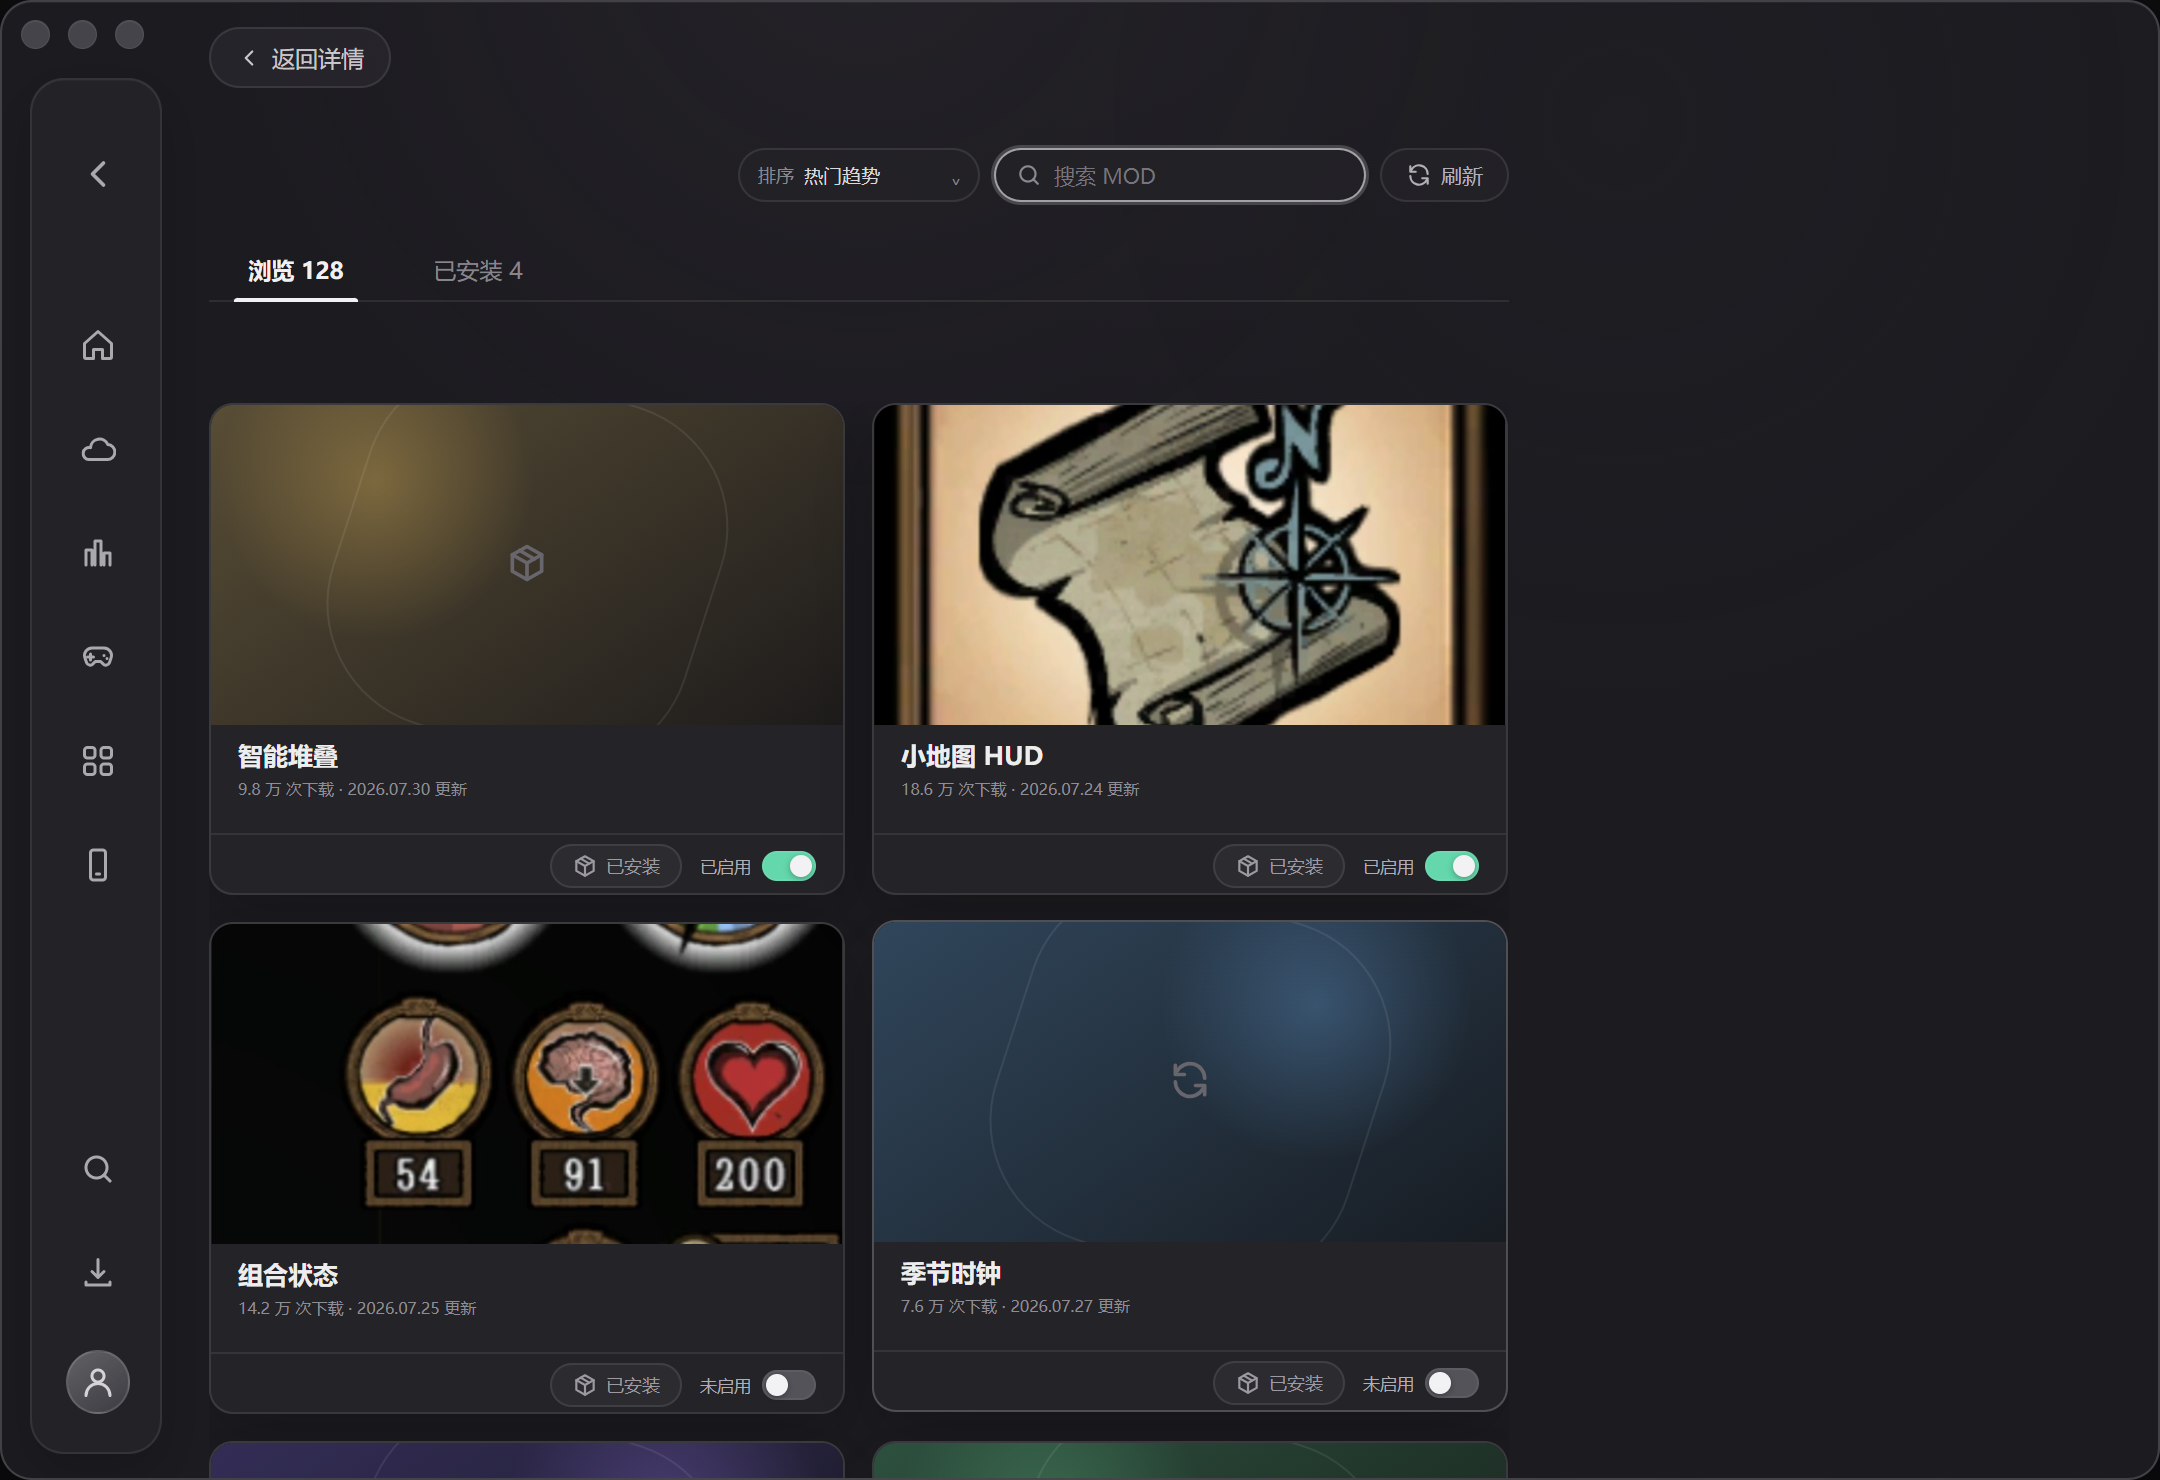
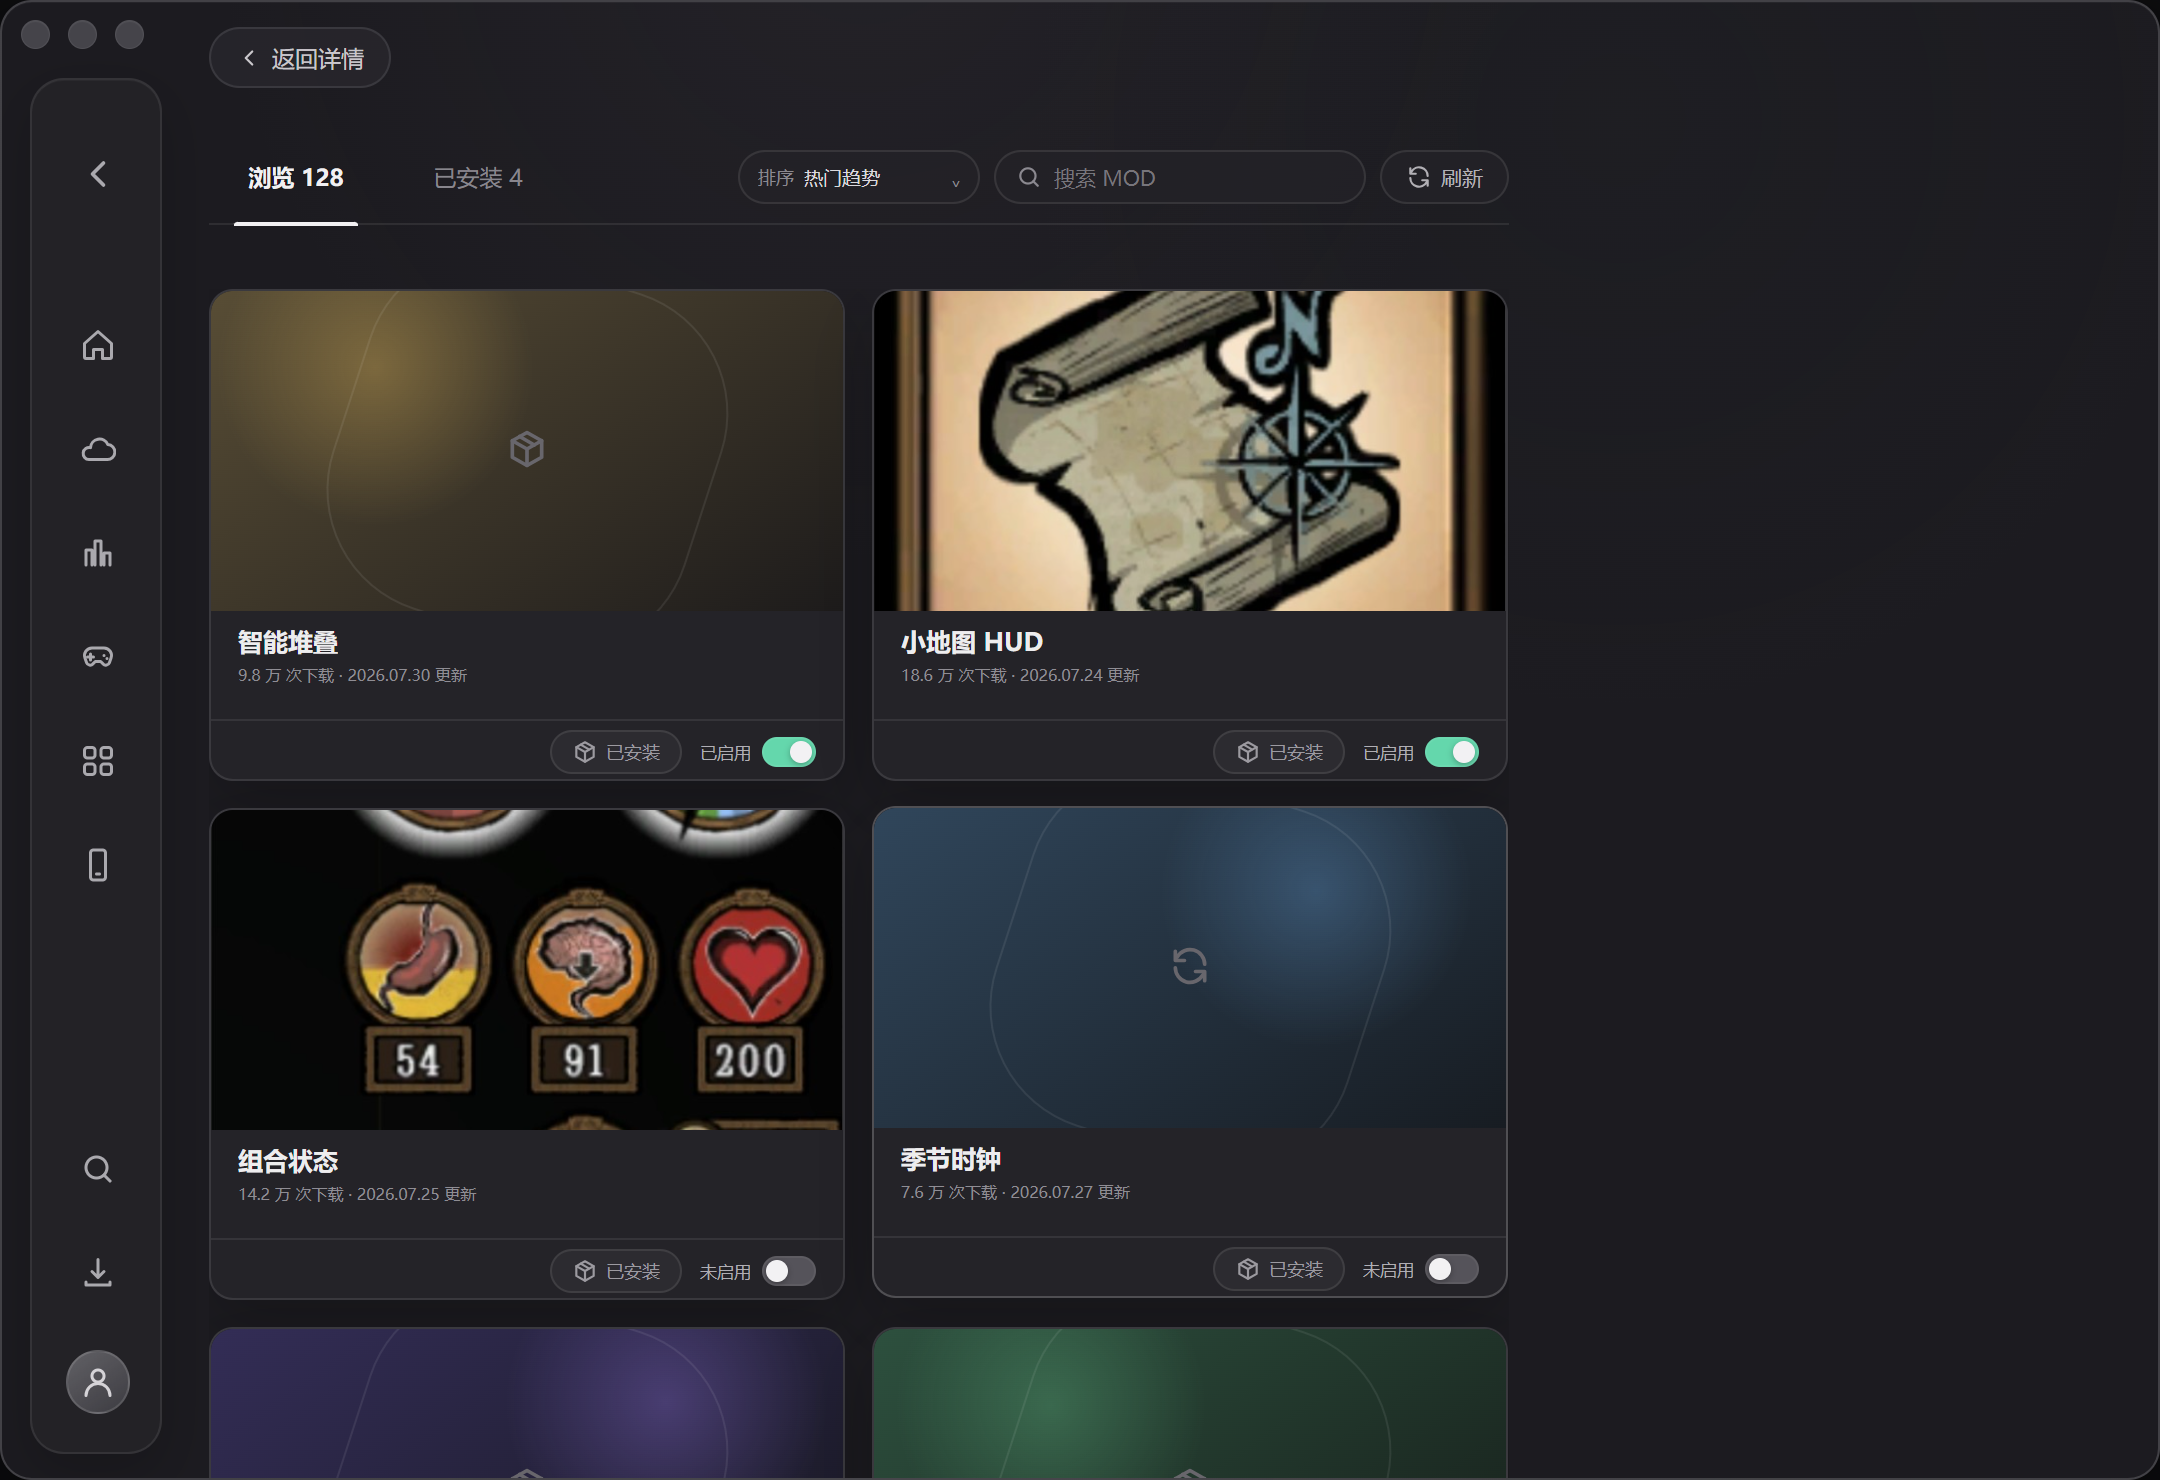
feat(mods): align tabs with list controls

diff --git a/demos/Mod与发行人/Mod功能Mac端demo.html b/demos/Mod与发行人/Mod功能Mac端demo.html
@@ -502,18 +502,21 @@
       top: 129px;
       left: 207px;
       width: 1300px;
-      height: 93px;
+      height: 94px;
       display: flex;
-      align-items: flex-start;
+      align-items: center;
+      justify-content: space-between;
+      border-bottom: 2px solid rgba(255, 255, 255, 0.08);
     }
 
     .list-tools {
-      width: 100%;
+      width: auto;
+      flex: 0 0 auto;
       display: flex;
       align-items: center;
       justify-content: flex-end;
       gap: 14px;
-      padding-top: 17px;
+      padding-top: 0;
     }
 
     .compact-select {
@@ -1319,20 +1322,21 @@
 
     /* 列表页的 Tab、排序和筛选。 */
     .mods-tabs {
-      position: absolute;
-      top: 238px;
-      left: 207px;
-      width: 1300px;
-      height: 62px;
+      position: static;
+      width: auto;
+      height: 100%;
+      flex: 0 0 auto;
       display: flex;
       align-items: stretch;
       gap: 8px;
-      border-bottom: 2px solid rgba(255, 255, 255, 0.08);
+      border-bottom: 0;
     }
 
     .mods-tabs button {
       position: relative;
       min-width: 174px;
+      height: 54px;
+      align-self: center;
       padding: 0 28px;
       border: 0;
       background: transparent;
@@ -1353,7 +1357,7 @@
     .mods-tabs button.is-active::after {
       position: absolute;
       right: 25px;
-      bottom: -2px;
+      bottom: -22px;
       left: 25px;
       height: 4px;
       border-radius: 4px 4px 0 0;
@@ -1363,7 +1367,7 @@
 
     .catalog-toolbar {
       position: absolute;
-      top: 318px;
+      top: 223px;
       left: 207px;
       width: 1300px;
       height: 64px;
@@ -1378,8 +1382,8 @@
     }
 
     .mods-grid {
-      top: 401px;
-      height: 1079px;
+      top: 287px;
+      height: 1193px;
       grid-auto-rows: 492px;
     }
 
@@ -2420,26 +2424,26 @@
         <section class="mods-list" data-screen="mods-list">
           <button class="back-detail" type="button" data-action="back-game">${icon('back', 'small')}返回详情</button>
           <header class="mods-list-header">
+            <div class="mods-tabs" role="tablist" aria-label="MODS 内容范围">
+              <button type="button" role="tab"
+                data-mod-tab="browse"
+                data-action="set-tab"
+                data-value="browse"
+                aria-selected="${viewModel.activeTab === 'browse'}"
+                class="${viewModel.activeTab === 'browse' ? 'is-active' : ''}">浏览 ${viewModel.catalogTotal}</button>
+              <button type="button" role="tab"
+                data-mod-tab="installed"
+                data-action="set-tab"
+                data-value="installed"
+                aria-selected="${viewModel.activeTab === 'installed'}"
+                class="${viewModel.activeTab === 'installed' ? 'is-active' : ''}">已安装 ${viewModel.installedCount}</button>
+            </div>
             <div class="list-tools">
               ${viewModel.activeTab === 'browse' ? browseControls : installedControls}
               <label class="search-field">${icon('search', 'small')}<input data-input="search" aria-label="搜索 MOD" placeholder="搜索 MOD" value="${escapeHtml(viewModel.searchText)}"></label>
               <button class="refresh-button ${viewModel.state.ui.refreshing ? 'is-refreshing' : ''}" type="button" data-action="refresh">${icon('refresh', 'small')}${viewModel.state.ui.refreshing ? '刷新中' : '刷新'}</button>
             </div>
           </header>
-          <div class="mods-tabs" role="tablist" aria-label="MODS 内容范围">
-            <button type="button" role="tab"
-              data-mod-tab="browse"
-              data-action="set-tab"
-              data-value="browse"
-              aria-selected="${viewModel.activeTab === 'browse'}"
-              class="${viewModel.activeTab === 'browse' ? 'is-active' : ''}">浏览 ${viewModel.catalogTotal}</button>
-            <button type="button" role="tab"
-              data-mod-tab="installed"
-              data-action="set-tab"
-              data-value="installed"
-              aria-selected="${viewModel.activeTab === 'installed'}"
-              class="${viewModel.activeTab === 'installed' ? 'is-active' : ''}">已安装 ${viewModel.installedCount}</button>
-          </div>
           <div class="catalog-toolbar">
             ${viewModel.activeTab === 'installed'
               ? `<p data-catalog-summary>${viewModel.installedCount} 个已安装 · 仅此设备</p>`
